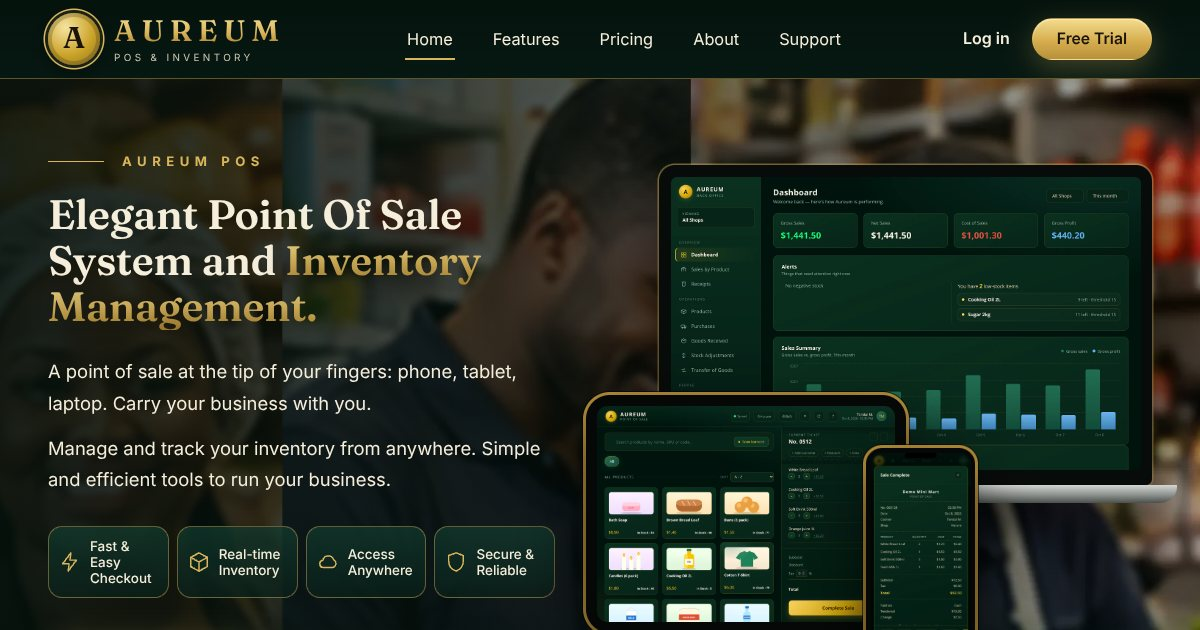
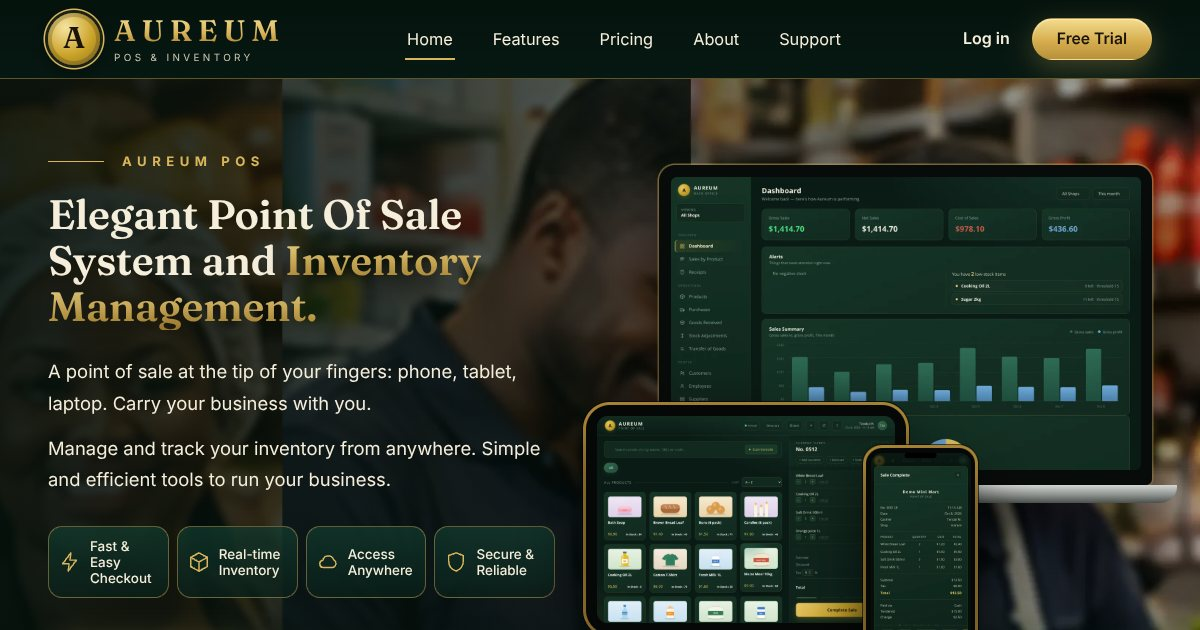
Restore the Phase 22 website

diff --git a/features/index.html b/features/index.html
@@ -63,17 +63,17 @@
 <section class="page-hero"><div class="wrap"><p class="eyebrow"><span class="rule"></span><span class="dia"></span><span class="eb-text">FEATURES</span><span class="dia"></span><span class="rule"></span></p><h1 class="page-title">AUREUM Features</h1><p class="page-lead">Everything on this page is in the AUREUM application today.</p></div></section><section class="showcase" id="checkout" aria-labelledby="checkout-t">
   <div class="wrap sc-in">
     <div class="sc-text rv"><span class="ic-ring"><svg class="ic" width="24" height="24" viewBox="0 0 24 24" fill="none" stroke="currentColor" stroke-width="1.6" stroke-linecap="round" stroke-linejoin="round" aria-hidden="true" focusable="false"><path d="M3 4h2l2.4 11h10.2l2-8H6.2"/><circle cx="9" cy="19.5" r="1.4"/><circle cx="17" cy="19.5" r="1.4"/></svg></span><h2 id="checkout-t">POS Checkout</h2><p class="lead">A fast, touch-friendly till that works on a phone, tablet or laptop — and keeps selling when the internet drops.</p><ul class="ticks"><li><svg class="ic tick" width="18" height="18" viewBox="0 0 24 24" fill="none" stroke="currentColor" stroke-width="1.6" stroke-linecap="round" stroke-linejoin="round" aria-hidden="true" focusable="false"><path d="M5 12.5l4.5 4.5L19 7.5"/></svg><span>Tap products or search by name, code or barcode</span></li><li><svg class="ic tick" width="18" height="18" viewBox="0 0 24 24" fill="none" stroke="currentColor" stroke-width="1.6" stroke-linecap="round" stroke-linejoin="round" aria-hidden="true" focusable="false"><path d="M5 12.5l4.5 4.5L19 7.5"/></svg><span>Percent or amount discounts, with cashier permissions you control</span></li><li><svg class="ic tick" width="18" height="18" viewBox="0 0 24 24" fill="none" stroke="currentColor" stroke-width="1.6" stroke-linecap="round" stroke-linejoin="round" aria-hidden="true" focusable="false"><path d="M5 12.5l4.5 4.5L19 7.5"/></svg><span>Add a customer or a note to any sale</span></li><li><svg class="ic tick" width="18" height="18" viewBox="0 0 24 24" fill="none" stroke="currentColor" stroke-width="1.6" stroke-linecap="round" stroke-linejoin="round" aria-hidden="true" focusable="false"><path d="M5 12.5l4.5 4.5L19 7.5"/></svg><span>Record cash, card, mobile money or other payments, with change calculated for you</span></li><li><svg class="ic tick" width="18" height="18" viewBox="0 0 24 24" fill="none" stroke="currentColor" stroke-width="1.6" stroke-linecap="round" stroke-linejoin="round" aria-hidden="true" focusable="false"><path d="M5 12.5l4.5 4.5L19 7.5"/></svg><span>Sales made offline are saved on the device and sync automatically</span></li></ul></div>
-    <div class="sc-media sc-tablet rv"><div class="frame frame-tablet"><div class="tb-screen"><img src="/site/assets/img/screen-pos-1100.webp" srcset="/site/assets/img/screen-pos-1100.webp 1100w, /site/assets/img/screen-pos-2200.webp 2200w" sizes="(min-width:901px) 560px, 92vw" width="2200" height="1600" alt="The AUREUM POS checkout on a tablet: a product catalogue with pictures, names and prices beside the current ticket and a Complete Sale button." loading="lazy" decoding="async"></div></div></div>
+    <div class="sc-media sc-tablet rv"><div class="frame frame-tablet"><div class="tb-screen"><img src="/site/assets/img/screen-pos.webp" width="1100" height="764" alt="The AUREUM POS checkout on a tablet: a product catalogue with pictures, names and prices beside the current ticket and a Complete Sale button." loading="lazy" decoding="async"></div></div></div>
   </div>
 </section><section class="showcase flip" id="dashboard" aria-labelledby="dashboard-t">
   <div class="wrap sc-in">
     <div class="sc-text rv"><span class="ic-ring"><svg class="ic" width="24" height="24" viewBox="0 0 24 24" fill="none" stroke="currentColor" stroke-width="1.6" stroke-linecap="round" stroke-linejoin="round" aria-hidden="true" focusable="false"><path d="M5 20V12M12 20V5M19 20v-9"/><path d="M3 20h18"/></svg></span><h2 id="dashboard-t">Dashboard &amp; Reports</h2><p class="lead">See how your business is doing — for one shop or all of them.</p><ul class="ticks"><li><svg class="ic tick" width="18" height="18" viewBox="0 0 24 24" fill="none" stroke="currentColor" stroke-width="1.6" stroke-linecap="round" stroke-linejoin="round" aria-hidden="true" focusable="false"><path d="M5 12.5l4.5 4.5L19 7.5"/></svg><span>Gross sales, net sales, cost of sales and gross profit</span></li><li><svg class="ic tick" width="18" height="18" viewBox="0 0 24 24" fill="none" stroke="currentColor" stroke-width="1.6" stroke-linecap="round" stroke-linejoin="round" aria-hidden="true" focusable="false"><path d="M5 12.5l4.5 4.5L19 7.5"/></svg><span>Low-stock and negative-stock alerts</span></li><li><svg class="ic tick" width="18" height="18" viewBox="0 0 24 24" fill="none" stroke="currentColor" stroke-width="1.6" stroke-linecap="round" stroke-linejoin="round" aria-hidden="true" focusable="false"><path d="M5 12.5l4.5 4.5L19 7.5"/></svg><span>Sales by payment type, by employee and by product</span></li><li><svg class="ic tick" width="18" height="18" viewBox="0 0 24 24" fill="none" stroke="currentColor" stroke-width="1.6" stroke-linecap="round" stroke-linejoin="round" aria-hidden="true" focusable="false"><path d="M5 12.5l4.5 4.5L19 7.5"/></svg><span>Reports for inventory, stock value, low stock, staff and shifts</span></li><li><svg class="ic tick" width="18" height="18" viewBox="0 0 24 24" fill="none" stroke="currentColor" stroke-width="1.6" stroke-linecap="round" stroke-linejoin="round" aria-hidden="true" focusable="false"><path d="M5 12.5l4.5 4.5L19 7.5"/></svg><span>An income statement with expenses; export lists to CSV, Excel or PDF</span></li></ul></div>
-    <div class="sc-media sc-laptop rv"><div class="frame frame-laptop"><div class="lp-screen"><img src="/site/assets/img/screen-dashboard-1280.webp" srcset="/site/assets/img/screen-dashboard-1280.webp 1280w, /site/assets/img/screen-dashboard-2560.webp 2560w" sizes="(min-width:901px) 560px, 92vw" width="2560" height="1600" alt="The AUREUM Back Office dashboard showing gross sales, net sales, cost of sales, gross profit, stock alerts and a sales summary chart." loading="lazy" decoding="async"></div><div class="lp-base" aria-hidden="true"></div></div></div>
+    <div class="sc-media sc-laptop rv"><div class="frame frame-laptop"><div class="lp-screen"><img src="/site/assets/img/screen-dashboard.webp" width="1280" height="800" alt="The AUREUM Back Office dashboard showing gross sales, net sales, cost of sales, gross profit, stock alerts and a sales summary chart." loading="lazy" decoding="async"></div><div class="lp-base" aria-hidden="true"></div></div></div>
   </div>
 </section><section class="showcase" id="receipts" aria-labelledby="receipts-t">
   <div class="wrap sc-in">
     <div class="sc-text rv"><span class="ic-ring"><svg class="ic" width="24" height="24" viewBox="0 0 24 24" fill="none" stroke="currentColor" stroke-width="1.6" stroke-linecap="round" stroke-linejoin="round" aria-hidden="true" focusable="false"><path d="M6 3h12v18l-3-2-3 2-3-2-3 2z"/><path d="M9 8h6M9 12h6"/></svg></span><h2 id="receipts-t">Receipts &amp; Refunds</h2><p class="lead">Every sale gets a receipt, and mistakes can be put right accurately.</p><ul class="ticks"><li><svg class="ic tick" width="18" height="18" viewBox="0 0 24 24" fill="none" stroke="currentColor" stroke-width="1.6" stroke-linecap="round" stroke-linejoin="round" aria-hidden="true" focusable="false"><path d="M5 12.5l4.5 4.5L19 7.5"/></svg><span>Print by browser, USB printer or Bluetooth printer, or email a receipt</span></li><li><svg class="ic tick" width="18" height="18" viewBox="0 0 24 24" fill="none" stroke="currentColor" stroke-width="1.6" stroke-linecap="round" stroke-linejoin="round" aria-hidden="true" focusable="false"><path d="M5 12.5l4.5 4.5L19 7.5"/></svg><span>Your business name, header, footer and logo on every receipt</span></li><li><svg class="ic tick" width="18" height="18" viewBox="0 0 24 24" fill="none" stroke="currentColor" stroke-width="1.6" stroke-linecap="round" stroke-linejoin="round" aria-hidden="true" focusable="false"><path d="M5 12.5l4.5 4.5L19 7.5"/></svg><span>Refund item by item, with tax and discount reversed in proportion</span></li><li><svg class="ic tick" width="18" height="18" viewBox="0 0 24 24" fill="none" stroke="currentColor" stroke-width="1.6" stroke-linecap="round" stroke-linejoin="round" aria-hidden="true" focusable="false"><path d="M5 12.5l4.5 4.5L19 7.5"/></svg><span>Today's Sales at the till for reprints and refunds</span></li></ul></div>
-    <div class="sc-media sc-phone rv"><div class="frame frame-phone"><span class="ph-island" aria-hidden="true"></span><div class="ph-screen"><img src="/site/assets/img/screen-receipt-780.webp" srcset="/site/assets/img/screen-receipt-780.webp 780w, /site/assets/img/screen-receipt-1170.webp 1170w" sizes="(min-width:901px) 290px, 70vw" width="1170" height="2532" alt="A completed sale on a phone: the AUREUM receipt with items, total, payment method and print and email options." loading="lazy" decoding="async"></div></div></div>
+    <div class="sc-media sc-phone rv"><div class="frame frame-phone"><span class="ph-island" aria-hidden="true"></span><div class="ph-screen"><img src="/site/assets/img/screen-receipt.webp" width="560" height="1212" alt="A completed sale on a phone: the AUREUM receipt with items, total, payment method and print and email options." loading="lazy" decoding="async"></div></div></div>
   </div>
 </section><section class="fgroups" aria-labelledby="fg-title">
   <div class="wrap">

diff --git a/index.html b/index.html
@@ -29,6 +29,7 @@
 <link rel="preload" as="font" type="font/woff2" href="/vendor/fonts/inter-latin-400-normal.woff2" crossorigin>
 <link rel="preload" as="font" type="font/woff2" href="/vendor/fonts/inter-latin-600-normal.woff2" crossorigin>
 <link rel="preload" as="image" href="/site/assets/img/hero-bg.webp" fetchpriority="high">
+<link rel="preload" as="image" href="/site/assets/img/screen-dashboard.webp" fetchpriority="high">
 <link rel="stylesheet" href="/vendor/fonts/fonts.css">
 <link rel="stylesheet" href="/vendor/fonts/fonts-serif.css">
 <link rel="stylesheet" href="/site/assets/site.css?v=0293d332">
@@ -76,9 +77,9 @@
       </div>
     </div>
     <div class="devices" role="group" aria-label="AUREUM on a laptop, a tablet and a phone">
-  <div class="dev dev-laptop"><div class="frame frame-laptop"><div class="lp-screen"><img src="/site/assets/img/screen-dashboard-1280.webp" srcset="/site/assets/img/screen-dashboard-1280.webp 1280w, /site/assets/img/screen-dashboard-2560.webp 2560w" sizes="(min-width:1101px) 690px, (min-width:761px) 640px, 92vw" width="2560" height="1600" alt="The AUREUM Back Office dashboard showing gross sales, net sales, cost of sales, gross profit, stock alerts and a sales summary chart." fetchpriority="high" decoding="async"></div><div class="lp-base" aria-hidden="true"></div></div></div>
-  <div class="dev dev-tablet"><div class="frame frame-tablet"><div class="tb-screen"><img src="/site/assets/img/screen-pos-1100.webp" srcset="/site/assets/img/screen-pos-1100.webp 1100w, /site/assets/img/screen-pos-2200.webp 2200w" sizes="(min-width:1101px) 600px, (min-width:761px) 520px, 70vw" width="2200" height="1600" alt="The AUREUM POS checkout on a tablet: a product catalogue with pictures, names and prices beside the current ticket and a Complete Sale button." fetchpriority="high" decoding="async"></div></div></div>
-  <div class="dev dev-phone"><div class="frame frame-phone"><span class="ph-island" aria-hidden="true"></span><div class="ph-screen"><img src="/site/assets/img/screen-receipt-780.webp" srcset="/site/assets/img/screen-receipt-780.webp 780w, /site/assets/img/screen-receipt-1170.webp 1170w" sizes="(min-width:1101px) 160px, (min-width:761px) 140px, 34vw" width="1170" height="2532" alt="A completed sale on a phone: the AUREUM receipt with items, total, payment method and print and email options." fetchpriority="high" decoding="async"></div></div></div>
+  <div class="dev dev-laptop"><div class="frame frame-laptop"><div class="lp-screen"><img src="/site/assets/img/screen-dashboard.webp" width="1280" height="800" alt="The AUREUM Back Office dashboard showing gross sales, net sales, cost of sales, gross profit, stock alerts and a sales summary chart." fetchpriority="high" decoding="async"></div><div class="lp-base" aria-hidden="true"></div></div></div>
+  <div class="dev dev-tablet"><div class="frame frame-tablet"><div class="tb-screen"><img src="/site/assets/img/screen-pos.webp" width="1100" height="764" alt="The AUREUM POS checkout on a tablet: a product catalogue with pictures, names and prices beside the current ticket and a Complete Sale button." fetchpriority="high" decoding="async"></div></div></div>
+  <div class="dev dev-phone"><div class="frame frame-phone"><span class="ph-island" aria-hidden="true"></span><div class="ph-screen"><img src="/site/assets/img/screen-receipt.webp" width="560" height="1212" alt="A completed sale on a phone: the AUREUM receipt with items, total, payment method and print and email options." fetchpriority="high" decoding="async"></div></div></div>
 </div>
   </div>
 </section><section class="access" aria-label="Open the AUREUM application">

diff --git a/site-src/components/devices.js b/site-src/components/devices.js
@@ -1,15 +1,9 @@
 import { HERO } from '../config.js';
 import { esc } from './ui.js';
 
-/* How wide each picture is actually shown, so each screen downloads only the size it needs:
-   a light file on ordinary screens, the full-resolution file on sharp (high-density) displays. */
-const SIZES = {
-  hero: { laptop: '(min-width:1101px) 690px, (min-width:761px) 640px, 92vw', tablet: '(min-width:1101px) 600px, (min-width:761px) 520px, 70vw', phone: '(min-width:1101px) 160px, (min-width:761px) 140px, 34vw' },
-  show: { laptop: '(min-width:901px) 560px, 92vw', tablet: '(min-width:901px) 560px, 92vw', phone: '(min-width:901px) 290px, 70vw' }
-};
-const shot = (key, { eager = false, ctx = 'show' } = {}) => {
-  const d = HERO.devices[key], first = d.set[0][0];
-  return `<img src="${first}" srcset="${d.set.map(([u, w]) => `${u} ${w}w`).join(', ')}" sizes="${SIZES[ctx][key]}" width="${d.w}" height="${d.h}" alt="${esc(d.alt)}" ${eager ? 'fetchpriority="high" decoding="async"' : 'loading="lazy" decoding="async"'}>`;
+const shot = (key, { eager = false } = {}) => {
+  const d = HERO.devices[key];
+  return `<img src="${d.src}" width="${d.w}" height="${d.h}" alt="${esc(d.alt)}" ${eager ? 'fetchpriority="high" decoding="async"' : 'loading="lazy" decoding="async"'}>`;
 };
 
 /* Each frame is pure HTML/CSS around a REAL screenshot of the AUREUM application. */
@@ -20,7 +14,7 @@ export const deviceByKey = (key, opts) => ({ laptop, tablet, phone })[key](opts)
 
 /* The hero composition: laptop = dashboard, tablet = POS checkout, phone = receipt. */
 export const heroDevices = () => `<div class="devices" role="group" aria-label="AUREUM on a laptop, a tablet and a phone">
-  <div class="dev dev-laptop">${laptop({ eager: true, ctx: 'hero' })}</div>
-  <div class="dev dev-tablet">${tablet({ eager: true, ctx: 'hero' })}</div>
-  <div class="dev dev-phone">${phone({ eager: true, ctx: 'hero' })}</div>
+  <div class="dev dev-laptop">${laptop({ eager: true })}</div>
+  <div class="dev dev-tablet">${tablet({ eager: true })}</div>
+  <div class="dev dev-phone">${phone({ eager: true })}</div>
 </div>`;

diff --git a/site-src/config.js b/site-src/config.js
@@ -53,9 +53,9 @@ export const HERO = {
     { icon: 'shield', text: 'Secure & Reliable' }
   ],
   devices: {
-    laptop: { set: [['/site/assets/img/screen-dashboard-1280.webp', 1280], ['/site/assets/img/screen-dashboard-2560.webp', 2560]], w: 2560, h: 1600, alt: 'The AUREUM Back Office dashboard showing gross sales, net sales, cost of sales, gross profit, stock alerts and a sales summary chart.' },
-    tablet: { set: [['/site/assets/img/screen-pos-1100.webp', 1100], ['/site/assets/img/screen-pos-2200.webp', 2200]], w: 2200, h: 1600, alt: 'The AUREUM POS checkout on a tablet: a product catalogue with pictures, names and prices beside the current ticket and a Complete Sale button.' },
-    phone: { set: [['/site/assets/img/screen-receipt-780.webp', 780], ['/site/assets/img/screen-receipt-1170.webp', 1170]], w: 1170, h: 2532, alt: 'A completed sale on a phone: the AUREUM receipt with items, total, payment method and print and email options.' }
+    laptop: { src: '/site/assets/img/screen-dashboard.webp', w: 1280, h: 800, alt: 'The AUREUM Back Office dashboard showing gross sales, net sales, cost of sales, gross profit, stock alerts and a sales summary chart.' },
+    tablet: { src: '/site/assets/img/screen-pos.webp', w: 1100, h: 764, alt: 'The AUREUM POS checkout on a tablet: a product catalogue with pictures, names and prices beside the current ticket and a Complete Sale button.' },
+    phone: { src: '/site/assets/img/screen-receipt.webp', w: 560, h: 1212, alt: 'A completed sale on a phone: the AUREUM receipt with items, total, payment method and print and email options.' }
   }
 };
 

diff --git a/site-src/pages/home.js b/site-src/pages/home.js
@@ -3,7 +3,7 @@ import { hero, productAccess, builtFor, offer, steps } from '../components/secti
 
 export const home = {
   path: '/', file: 'index.html', active: 'home', title: SITE.title, description: SITE.description,
-  preload: ['/site/assets/img/hero-bg.webp'],
+  preload: ['/site/assets/img/hero-bg.webp', '/site/assets/img/screen-dashboard.webp'],
   software: true,
   body: () => hero() + productAccess() + builtFor() + offer() + steps()
 };

diff --git a/SITE-GUIDE.md b/SITE-GUIDE.md
@@ -38,7 +38,7 @@ Everything lives in `site-src/`. After any change run **`node tools/build-site.m
 ## Pictures (please read)
 Images are in `site/assets/img/`. Replace any picture by dropping a new file **with the same name** and keeping the proportions.
 - **`card-bakery/retail/grocery/fashion.webp` and `hero-bg.webp` are stand-ins**, cropped from the design mock-up you supplied (about 640 px wide). Replace them with your own photographs of real businesses — ideally about 1280 × 800 for the cards and 2400 × 1200 for the background.
-- **`screen-dashboard-*.webp`, `screen-pos-*.webp`, `screen-receipt-*.webp` are real, high-resolution screenshots of the application** with sample data. Each comes in two sizes — laptop 1280 and 2560 px wide, tablet 1100 and 2200, phone 780 and 1170 — and the page serves the light one to ordinary screens and the full-resolution one to sharp (high-density) displays. To refresh them, capture the real screen at 2× or 3× pixel density (laptop 1280 × 800 → 2560 × 1600; tablet 1100 × 800 → 2200 × 1600; phone 390 × 844 → 1170 × 2532), export as WebP at quality ~90, and keep the file names.
+- **`screen-dashboard.webp`, `screen-pos.webp`, `screen-receipt.webp` are real screenshots of the application** with sample data (a fictional "Demo Mini Mart" and illustrated sample products). Replace them with fresh screenshots whenever the app's look changes (about 1440 × 900, 1180 × 820 and 390 × 844 at double resolution).
 - `og-image.jpg` is the picture shown when a link is shared (1200 × 630).
 - Compress to WebP before adding.
 

diff --git a/CHANGELOG.md b/CHANGELOG.md
@@ -1,10 +1,5 @@
 # Changelog
 
-## Phase 26 — Original design, with HD screens
-- The website is back to its original (Phase 22) design: the original serif headline typeface, the "POS & INVENTORY" tagline, the photo background and business cards, and the flag footer.
-- **Kept:** the high-resolution laptop, tablet and phone screens (2560 × 1600, 2200 × 1600, 1170 × 2532) re-captured from the real application, with higher-quality WebP and a lift in contrast and vibrancy. Each ships in two sizes and the browser picks the right one, so ordinary screens stay fast and sharp displays get full resolution. The Features page pictures and the social-share image are upgraded too.
-- 121 automatic checks (the original 111 plus 10 for the reset and the HD screens).
-
 ## Phase 22 — The public AUREUM website
 - New public website: **Home, Features, Pricing, About, Support** — static pages in the AUREUM forest-green and gold style, with the real Back Office dashboard, POS checkout and receipt shown on a laptop, tablet and phone. Source in `site-src/`, built by `node tools/build-site.mjs`. See `SITE-GUIDE.md`.
 - **Free Trial** opens the real Back Office on **Create Business**; **Log in** opens it on **Sign In**; Open POS and Back Office go to the real pages. `backoffice.html` now accepts `?mode=signup` / `?mode=signin` (no parameter = unchanged).
